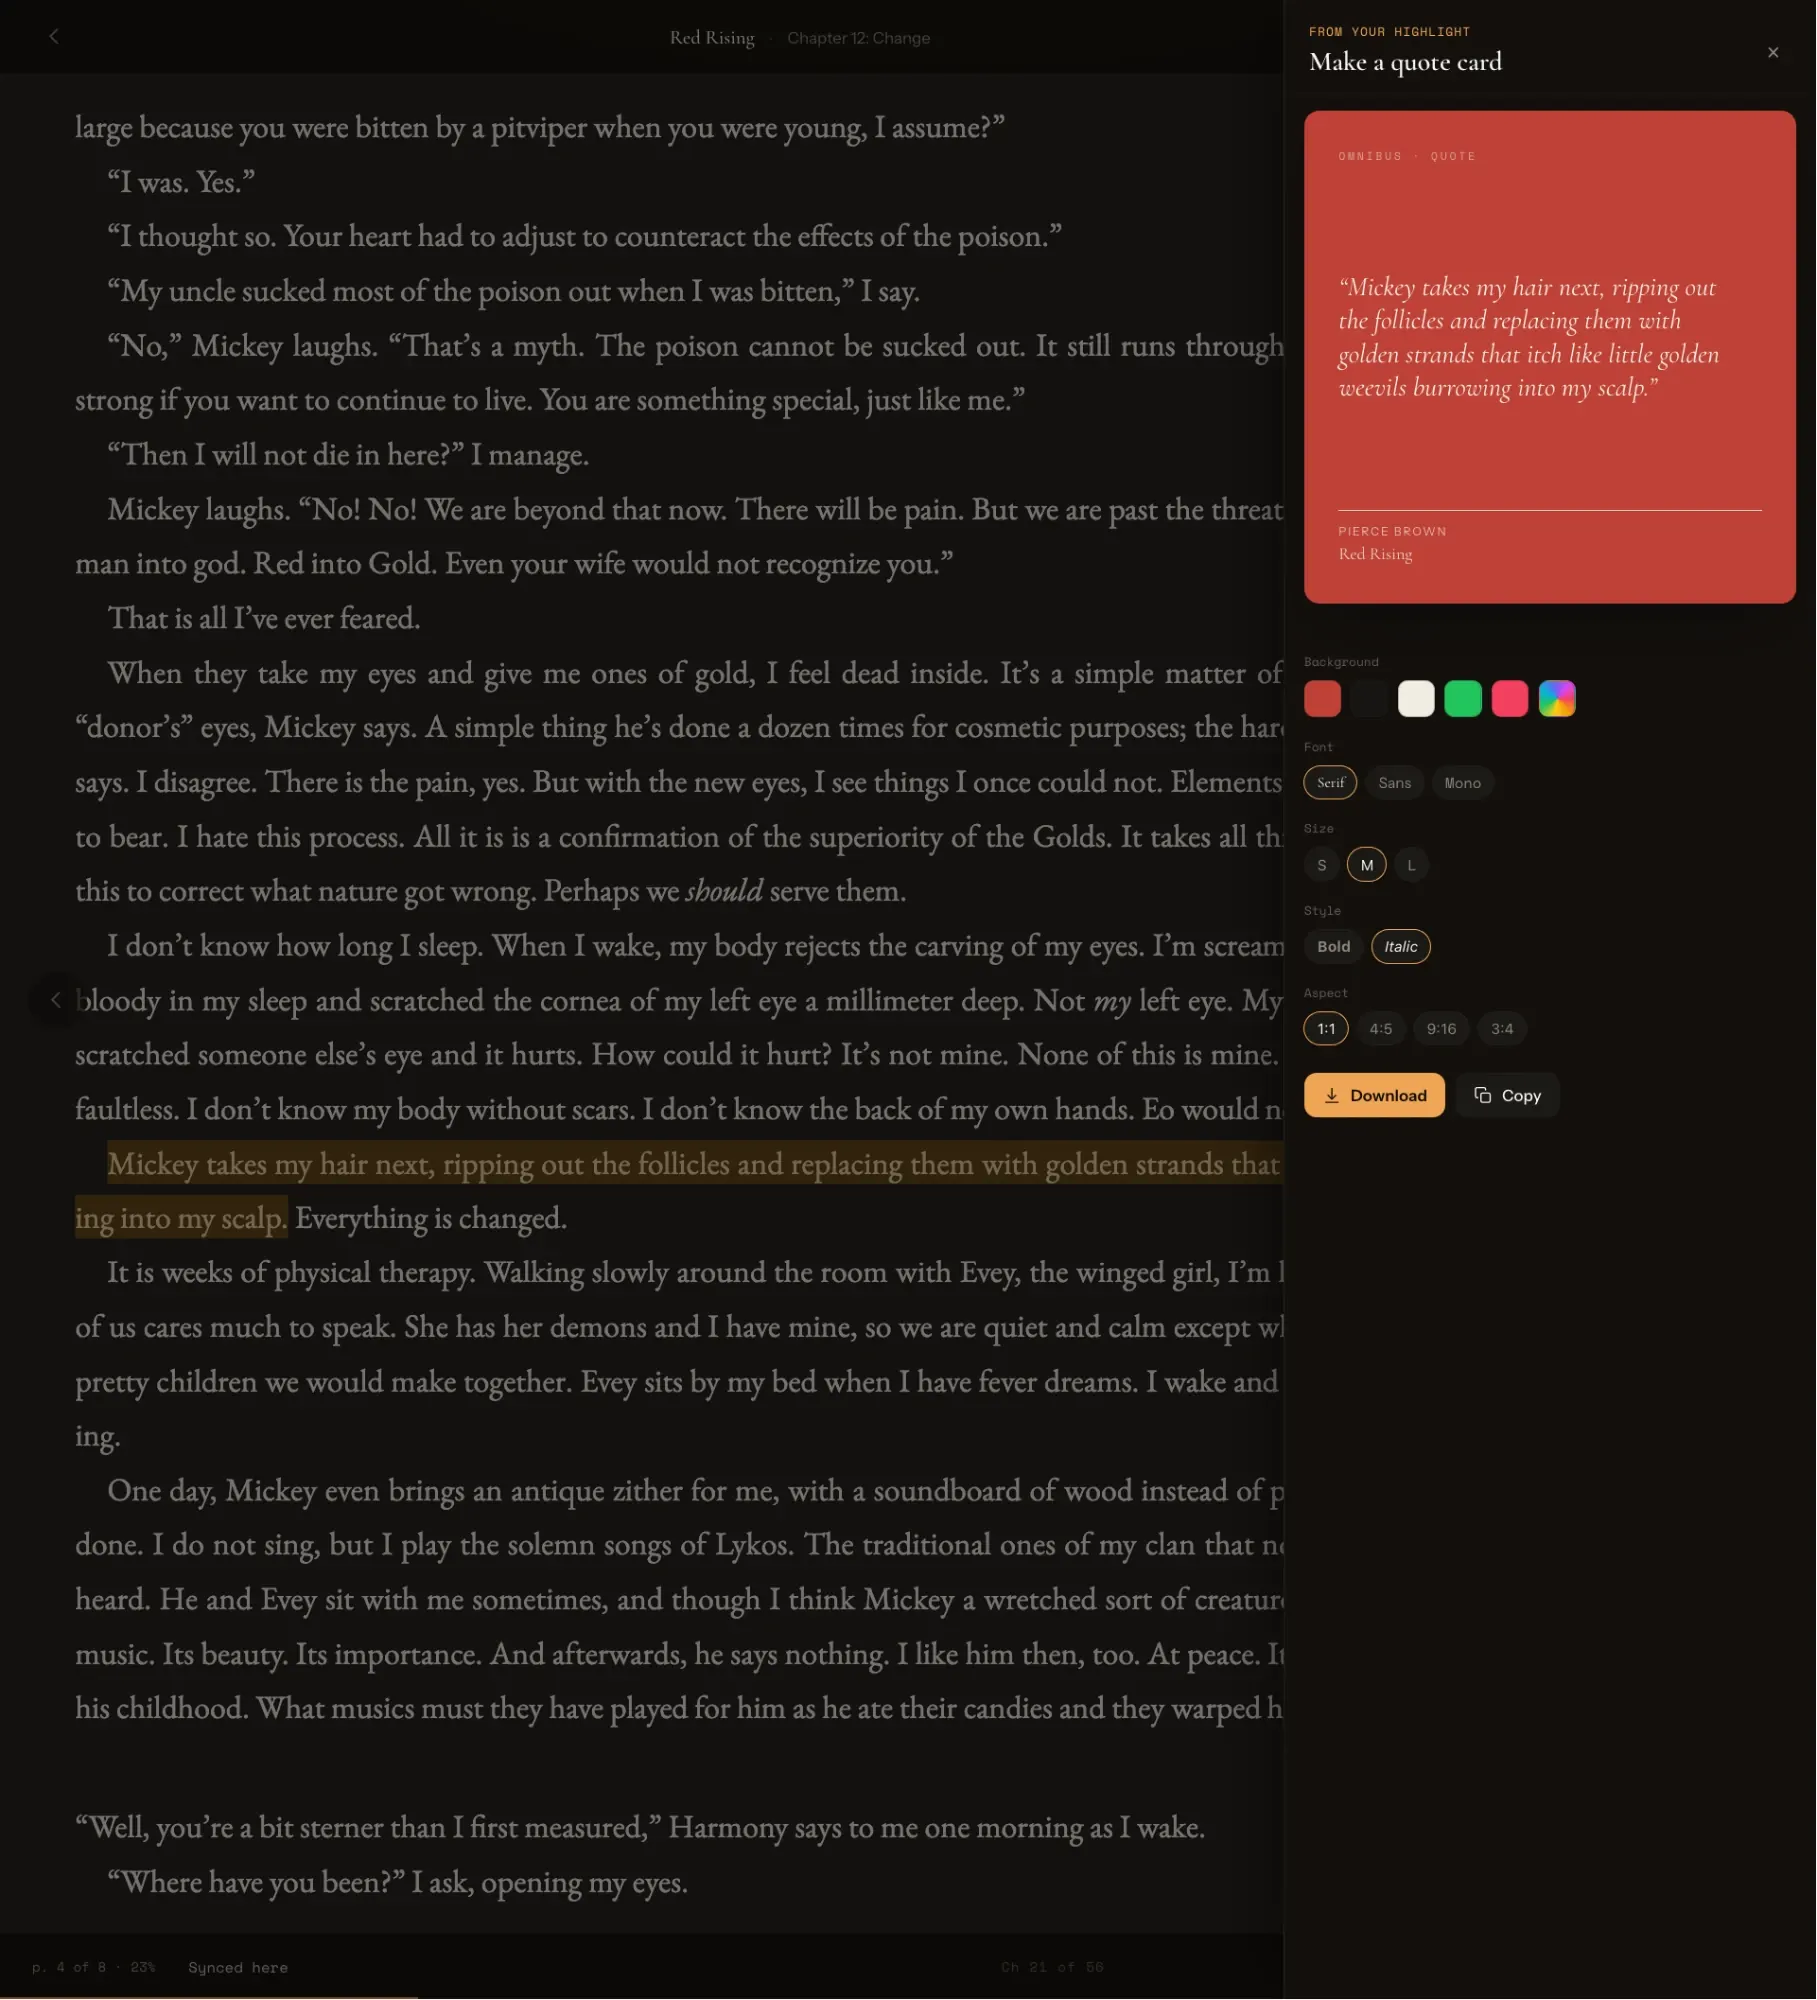
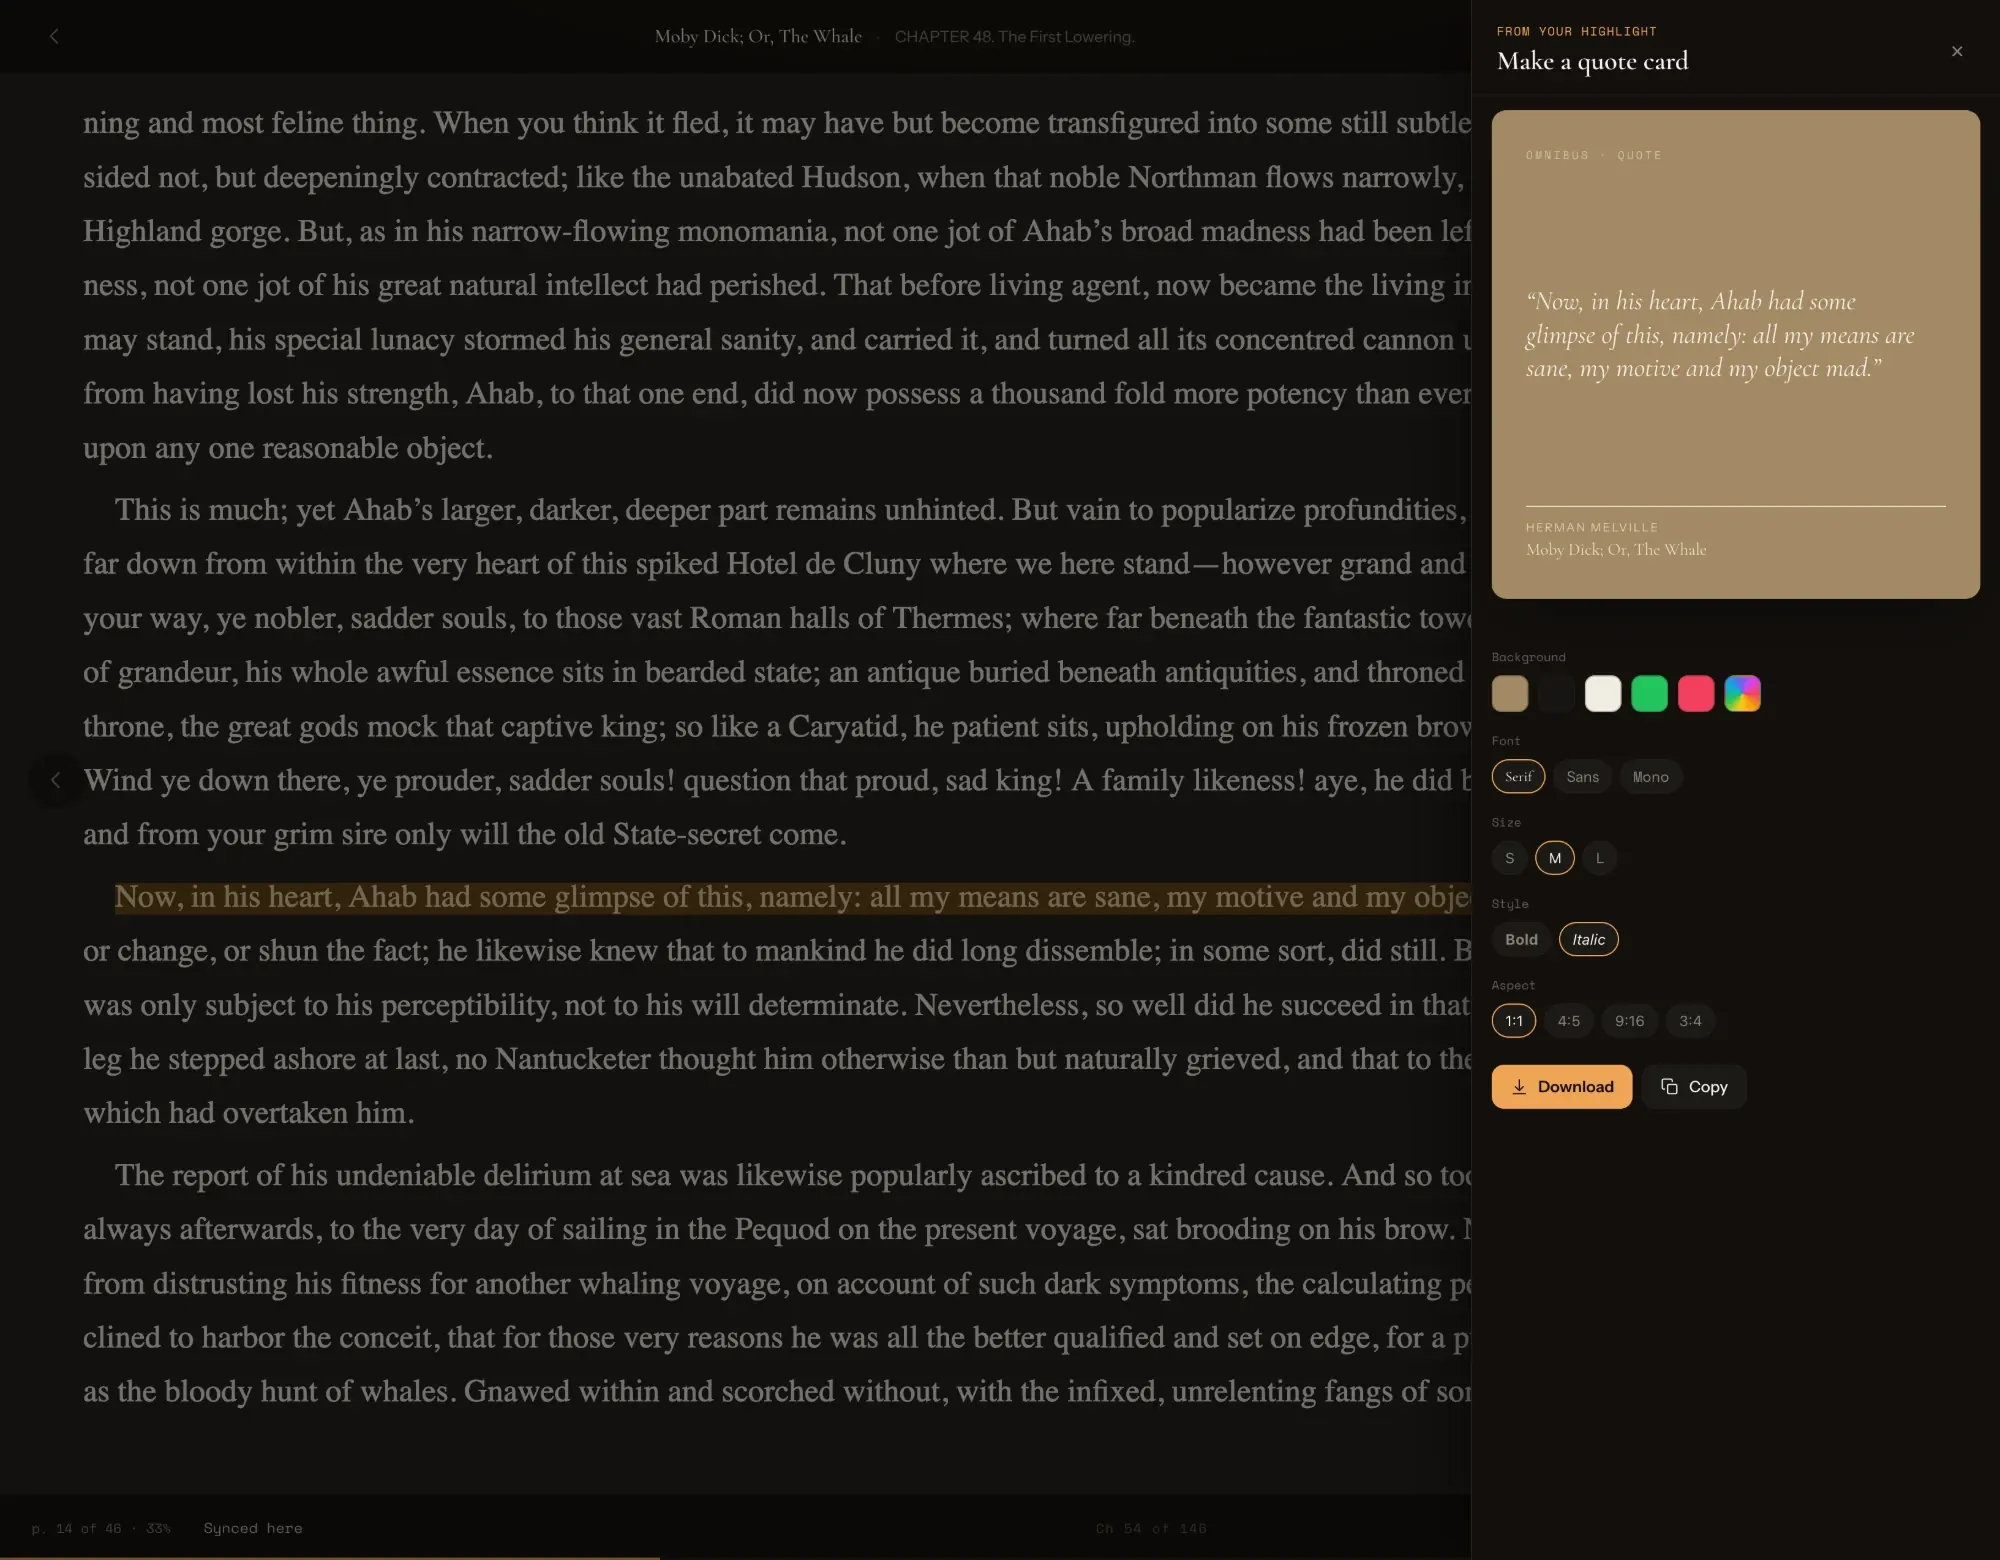
fix: replace the reader shot with a public-domain Moby Dick capture in both directions

Changed region(s): [[0.0308, 0.0, 1.0, 0.9538], [0.2466, 0.9846, 0.339, 1.0], [0.3698, 0.0, 0.4315, 0.0308]]

diff --git a/site/src/index.html b/site/src/index.html
@@ -83,8 +83,8 @@
             </ul>
           </div>
           <div class="split-vis" data-anim style="--d:230ms">
-            <figure class="frame" style="--ar:1817/2000">
-              <img class="shot" src="shots/dark/omnibus-reader-quote-card.webp" width="1817" height="2000" alt="The EPUB reader with a highlighted passage and the quote-card composer open beside it.">
+            <figure class="frame" style="--ar:2000/1560">
+              <img class="shot" src="shots/dark/omnibus-reader-quote-card.webp" width="2000" height="1560" alt="The EPUB reader with a highlighted passage and the quote-card composer open beside it.">
             </figure>
           </div>
         </div>

diff --git a/site/src/app.js b/site/src/app.js
@@ -55,7 +55,7 @@
     'omnibus-checkin-scan': 1,
     'omnibus-checkin-success': 1, 'omnibus-ios-book-detail': 1,
     'omnibus-library-home': 1, 'omnibus-metadata-edit': 1,
-    'omnibus-player': 1,
+    'omnibus-player': 1, 'omnibus-reader-quote-card': 1,
     'omnibus-settings-library': 1, 'omnibus-shelf-kobo': 1,
     'omnibus-sync-alignment': 1, 'omnibus-sync-continue-hero': 1,
     'omnibus-themes-strip': 1, 'omnibus-wishlist-ios': 1

diff --git a/docs/architecture.md b/docs/architecture.md
@@ -868,15 +868,14 @@ on every push to `main` that touches it.
 | `src/index.html` | Thirteen panels. All copy is real markup, never baked into an image. |
 | `src/site.css` | `--pg-*` chrome tokens, dark + sepia directions, and the `body.flow` fallback used below 861x560 and whenever JS is off. |
 | `src/app.js` | The panel deck — wheel/key/touch behind one gate, direction toggle, section rail. Progressive: the deck is opt-in, the page reads without it. |
-| `src/shots/{dark,sepia}/` | App screenshots, WebP, one directory per colour direction. Stills exported at 2x from the Claude Design "Omnibus" project and re-encoded by [`scripts/site-shots.sh`](../scripts/site-shots.sh) (`… <dir> sepia` writes the sibling set); the PNGs are not committed. `omnibus-reader-quote-card` is the exception: a capture of the live reader (dark only), not a design still. |
+| `src/shots/{dark,sepia}/` | App screenshots, WebP, one directory per colour direction. Stills exported at 2x from the Claude Design "Omnibus" project and re-encoded by [`scripts/site-shots.sh`](../scripts/site-shots.sh) (`… <dir> sepia` writes the sibling set); the PNGs are not committed. `omnibus-reader-quote-card` is the exception: both directions are captures of the live reader, not design stills. |
 
 The design stills are a picture of the *design*, not of what the server
 currently renders — they need re-exporting as redesigned surfaces ship under
 [#2132](https://github.com/omnibus-library/omnibus/issues/2132). The markup
 references the dark set; the direction toggle swaps each `img.shot`'s `src` to
 `shots/sepia/` for the names listed in `SEPIA_SHOTS` in `app.js` — a shot absent
-from that set keeps its dark render in both directions, which is also how the
-single live capture behaves.
+from that set keeps its dark render in both directions.
 The phone renders carry their device bezel with alpha corners in the image
 itself, so `.phone .shot` strips the CSS frame chrome the desktop shots get.
 
